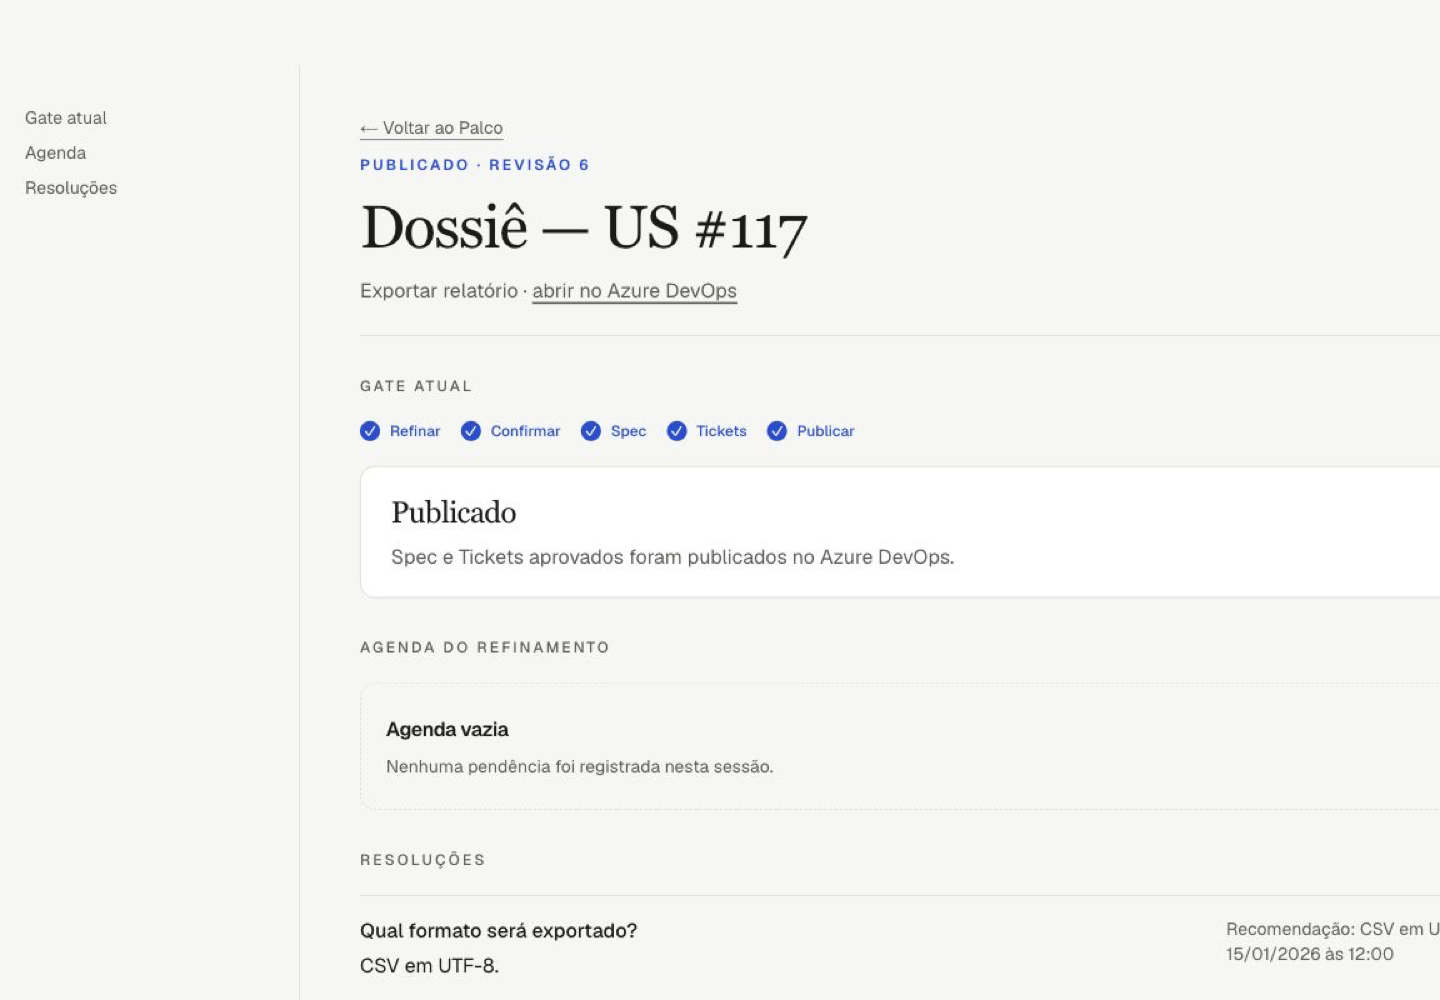
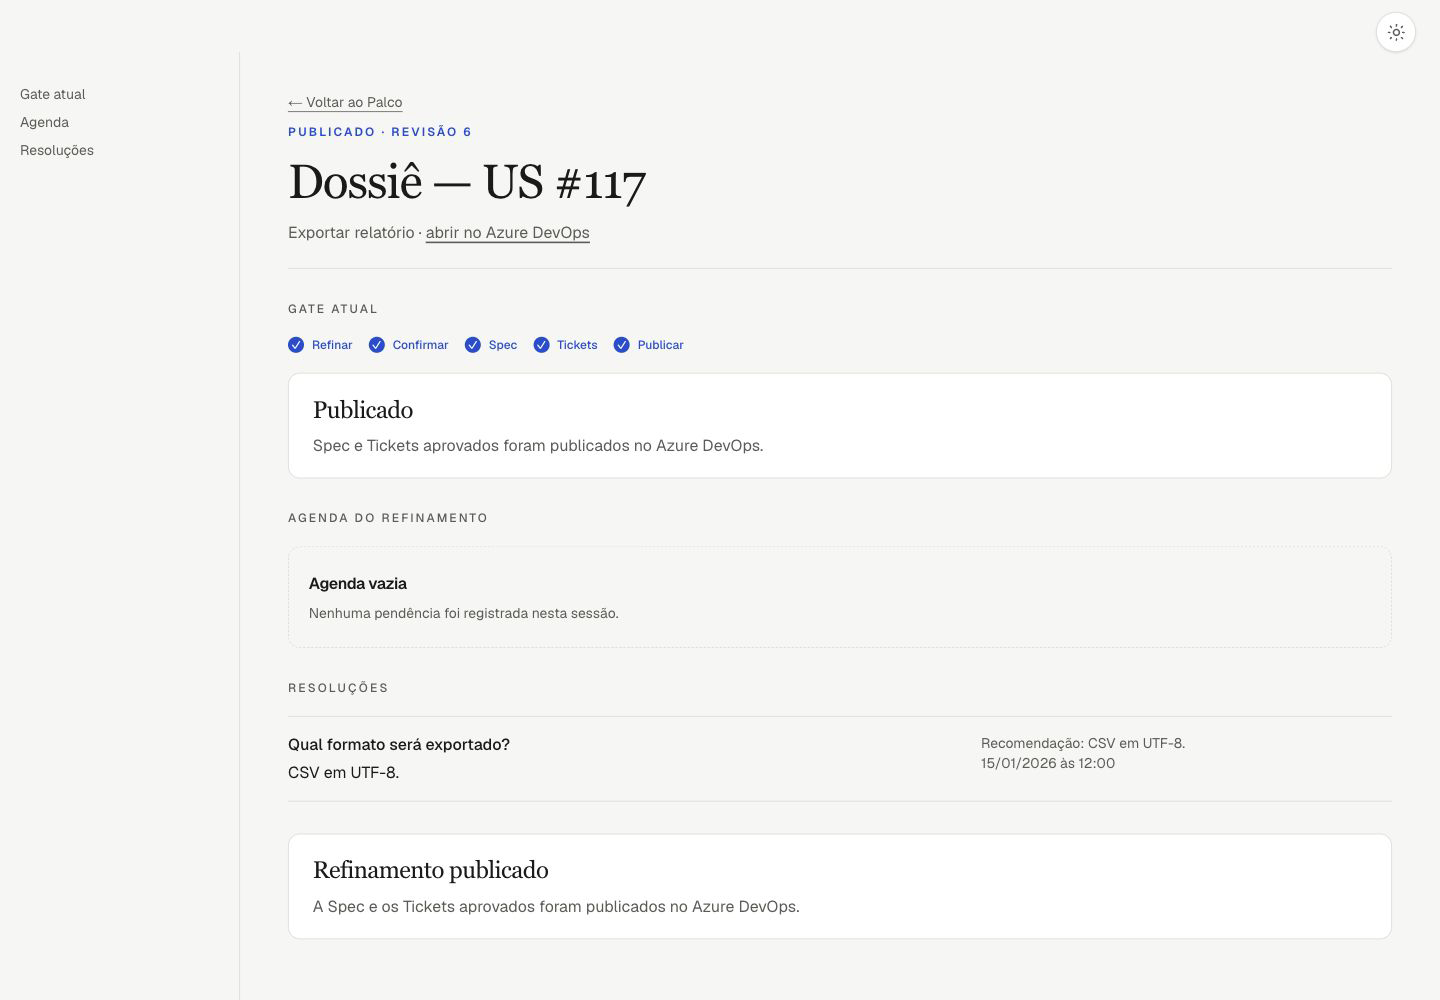
docs: fix readme captions and captures

diff --git a/README.md b/README.md
@@ -13,6 +13,8 @@ User Stories costumam chegar cruas ao refinamento, e dependências importantes a
 
 ![Fluxo do Refina em quatro etapas conectadas: Investigar, Refinar, Revisar e Publicar](docs/assets/readme/workflow.svg)
 
+*Da investigação da User Story à publicação dos artefatos aprovados.*
+
 ## O produto em três momentos
 
 ### Picker
